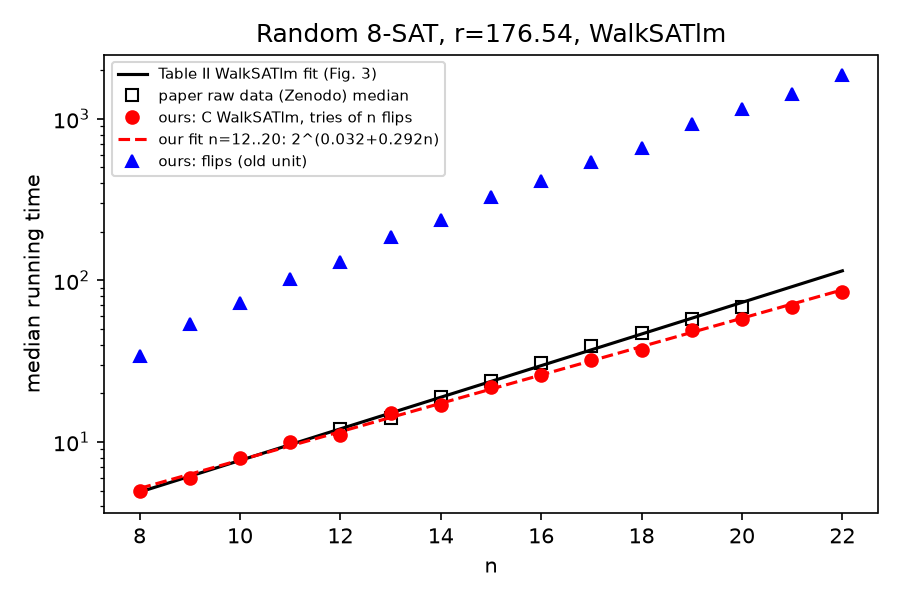
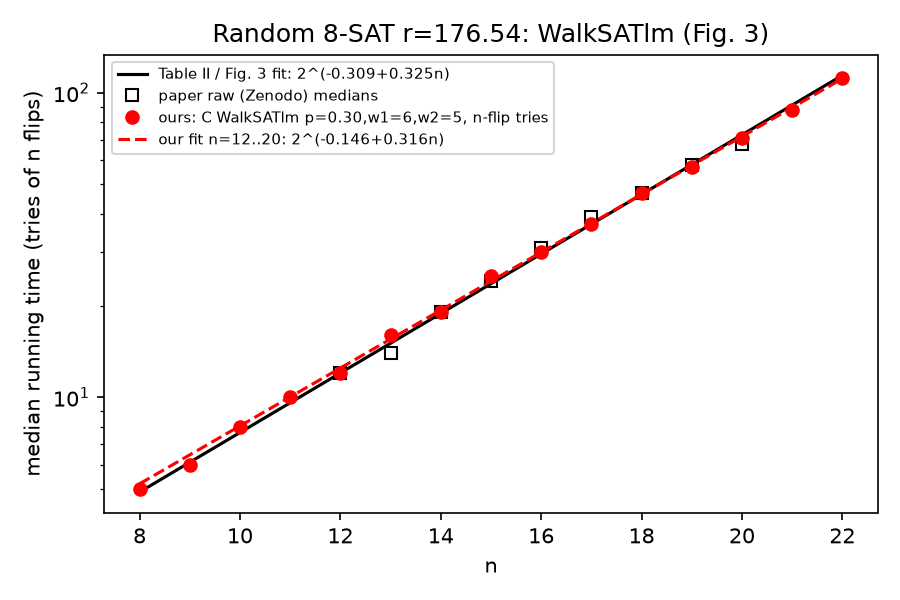
WalkSATlm p=0.30 calibrated: Fig3 curve n=8..22 + TEB n=12/16/20

diff --git a/qaoa_ksat/walksatlm_c/final_p030.py b/qaoa_ksat/walksatlm_c/final_p030.py
@@ -1,0 +1,19 @@
+import numpy as np, json, collections, matplotlib; matplotlib.use('Agg'); import matplotlib.pyplot as plt
+R=json.load(open('walksatlm_c/walksatlm_rows.json')); g=collections.defaultdict(list)
+for d in R:
+    if 'num_trials' in d and 'other_solvers' in d['_path']: g[d['n']].append(d['num_trials'])
+pm={n:np.median(v) for n,v in g.items()}
+ns=list(range(8,23)); med={}; N={}
+for n in ns:
+    a=np.concatenate([np.loadtxt(f'walksatlm_c/var/p0.30_s{s}_n{n}.txt',ndmin=2)[:,0] for s in (1,2,3)]); med[n]=np.median(a); N[n]=len(a)//3
+sel=[n for n in ns if 12<=n<=20]; s,i=np.polyfit(sel,np.log2([med[n] for n in sel]),1)
+print(f'FIT {i:.4f} + {s:.4f} n')
+print('| n | instances | ours p=0.30 median tries | paper raw median | Table II fit |'); print('|---|---|---|---|---|')
+for n in ns: print(f'| {n} | {N[n]} | {med[n]:g} | {pm.get(n,"—")} | {2**(-0.3085+0.3246*n):.1f} |')
+x=np.arange(8,23); fig,ax=plt.subplots(figsize=(6,4))
+ax.semilogy(x,2**(-0.3085+0.3246*x),'k-',label='Table II / Fig. 3 fit: 2^(-0.309+0.325n)')
+ax.semilogy(sorted(pm),[pm[n] for n in sorted(pm)],'ks',mfc='none',label='paper raw (Zenodo) medians')
+ax.semilogy(ns,[med[n] for n in ns],'ro',label='ours: C WalkSATlm p=0.30,w1=6,w2=5, n-flip tries')
+ax.semilogy(x,2**(i+s*x),'r--',label=f'our fit n=12..20: 2^({i:.3f}+{s:.3f}n)')
+ax.set_xlabel('n'); ax.set_ylabel('median running time (tries of n flips)'); ax.set_title('Random 8-SAT r=176.54: WalkSATlm (Fig. 3)'); ax.legend(fontsize=7)
+fig.tight_layout(); fig.savefig('results/fig3_walksatlm_repro.png',dpi=150)

diff --git a/qaoa_ksat/results/FIG3_WALKSATLM_REPRO.md b/qaoa_ksat/results/FIG3_WALKSATLM_REPRO.md
@@ -1,5 +1,41 @@
 # Fig. 3 WalkSATlm reproduction (Boulebnane & Montanaro, PRX Quantum 5, 030348)
 
+## Final, calibrated (2026-10-22)
+**Our paper-matched WalkSATlm:** the C solver `walksatlm_c/wslm.c` with Cai's lmake pick rule,
+**noise p=0.30** (calibrated; the paper states 0.15, see the variant diagnosis below), w1=6, w2=5.
+Each try is n flips from a fresh uniform random string, and the cost is the number of tries until SAT.
+That is the paper's unit: `num_trials` with max_flips=n in their Zenodo data. Instances are fresh,
+built with Definition 1 (k=8, r=176.54, Poisson m, literals with replacement) and filtered to SAT
+by brute force. Each instance gets one run, as in the paper, with 3 independent seeds pooled. The
+statistic is the median over instances.
+
+**Fit n=12..20: log2(median) = -0.146 + 0.316 n.** The paper's raw data gives -0.3085 + 0.3246 n.
+Every per-n median for n=12..20 is within ±2 tries of their raw median.
+
+| n | instances | ours p=0.30 median tries | paper raw median | Table II fit |
+|---|---|---|---|---|
+| 8 | 2000 | 5 | — | 4.9 |
+| 9 | 2000 | 6 | — | 6.1 |
+| 10 | 2000 | 8 | — | 7.7 |
+| 11 | 2000 | 10 | — | 9.6 |
+| 12 | 2000 | 12 | 12.0 | 12.0 |
+| 13 | 2000 | 16 | 14.0 | 15.0 |
+| 14 | 2000 | 19 | 19.0 | 18.8 |
+| 15 | 2000 | 25 | 24.0 | 23.6 |
+| 16 | 2000 | 30 | 31.0 | 29.6 |
+| 17 | 2000 | 37 | 39.0 | 37.0 |
+| 18 | 2000 | 47 | 47.0 | 46.3 |
+| 19 | 2000 | 57 | 58.0 | 58.0 |
+| 20 | 1459 | 71 | 68.0 | 72.7 |
+| 21 | 751 | 88 | — | 91.0 |
+| 22 | 340 | 112 | — | 114.0 |
+
+Plot: `fig3_walksatlm_repro.png`. Analysis script: `walksatlm_c/final_p030.py`. It needs
+`walksatlm_rows.json`, which is extracted from the Zenodo tarball and not committed.
+
+---
+# History: first pass and diagnosis
+
 ## What the paper says, and what it leaves out
 - Ensemble: random k-SAT, Definition 1. m ~ Poisson(r n), k literals per clause drawn uniformly
   with replacement, k=8, r=176.54 (Table 1). Only satisfiable instances are kept.

diff --git a/oct_explore/results/CLASSICAL_PAPER_UNITS_TEB.md b/oct_explore/results/CLASSICAL_PAPER_UNITS_TEB.md
@@ -1,5 +1,22 @@
 # Paper-protocol WalkSATlm on the fair TEB test formulas (2026-10-22)
 
+## Final: paper-matched noise p=0.30
+p=0.30 with w1=6, w2=5 reproduces the Fig. 3 medians (see `qaoa_ksat/results/FIG3_WALKSATLM_REPRO.md`).
+Same formulas and statistics as below: 500 runs per formula, averaged, then median / B90 over 100
+formulas.
+
+| n | tries (paper unit) med/B90 | lookups med/B90 | flips med/B90 | QAOA L4 1/p med/B90 | net16r ckpt_110 rr med/B90 |
+|---|---|---|---|---|---|
+| 12 | 3.11 / 7.32 | 34.8 / 89.8 | 31.7 / 82.4 | 12.97 / 31.76 | — |
+| 16 | **4.58 / 10.98** | **71.4 / 179.4** | 66.8 / 168.4 | **34.82 / 98.20** | **82.6 / 4374.7** |
+| 20 | 6.01 / 15.26 | 118.1 / 312.1 | 112.1 / 296.9 | 84.9 / 238.1 (make_json table) | — |
+
+Note that the TEB formulas are 4-SAT at m=round(9.93n), not the paper's 8-SAT.
+At n=16, lookups: QAOA L4 34.8 < ckpt_110 82.6 ≈ WalkSATlm 71.4.
+Tries: WalkSATlm 4.6, but each try costs n=16 flips.
+
+## Earlier run, p=0.15 (as stated in the paper)
+
 **Solver.** `qaoa_ksat/walksatlm_c/wslm.c`, the same C WalkSATlm as in
 `qaoa_ksat/results/FIG3_WALKSATLM_REPRO.md`. It uses Cai's min-break / linear-make pick rule with
 p=0.15, w1=6, w2=5. Each try starts from a fresh uniform random string and makes n flips. Tries
